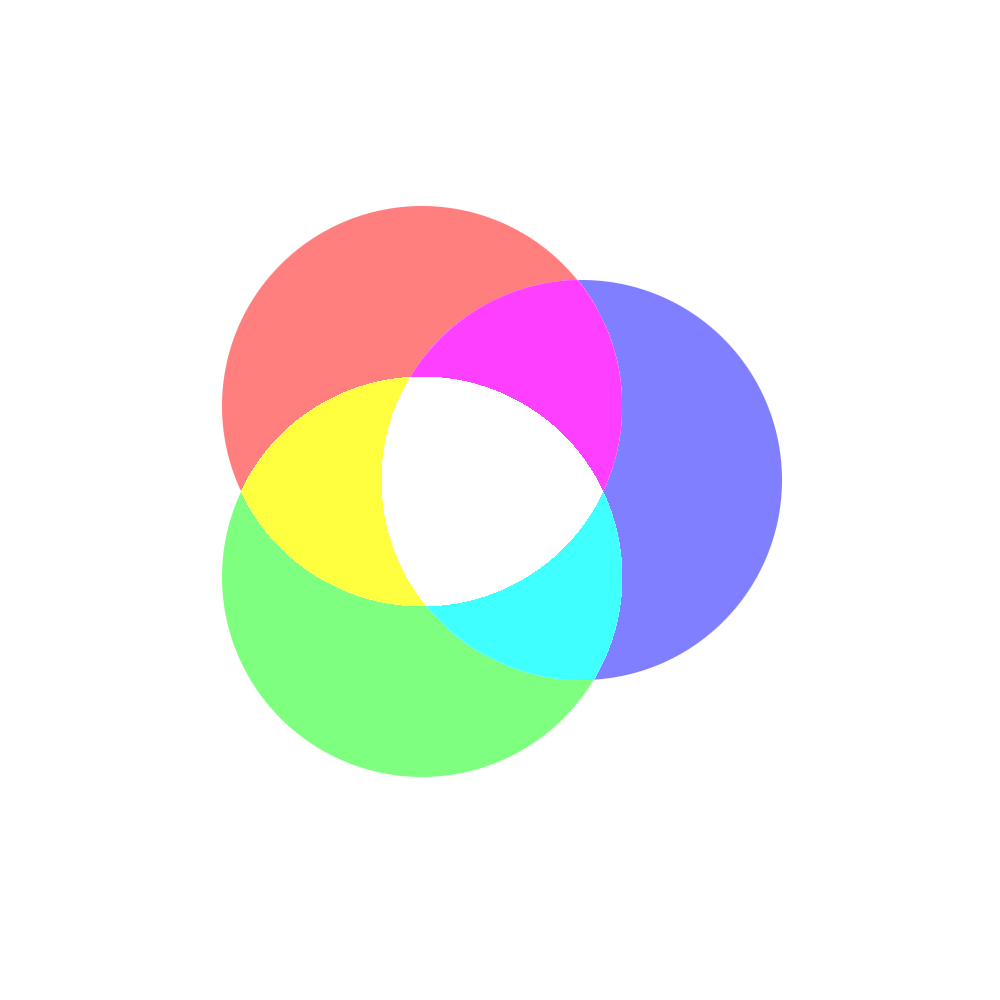
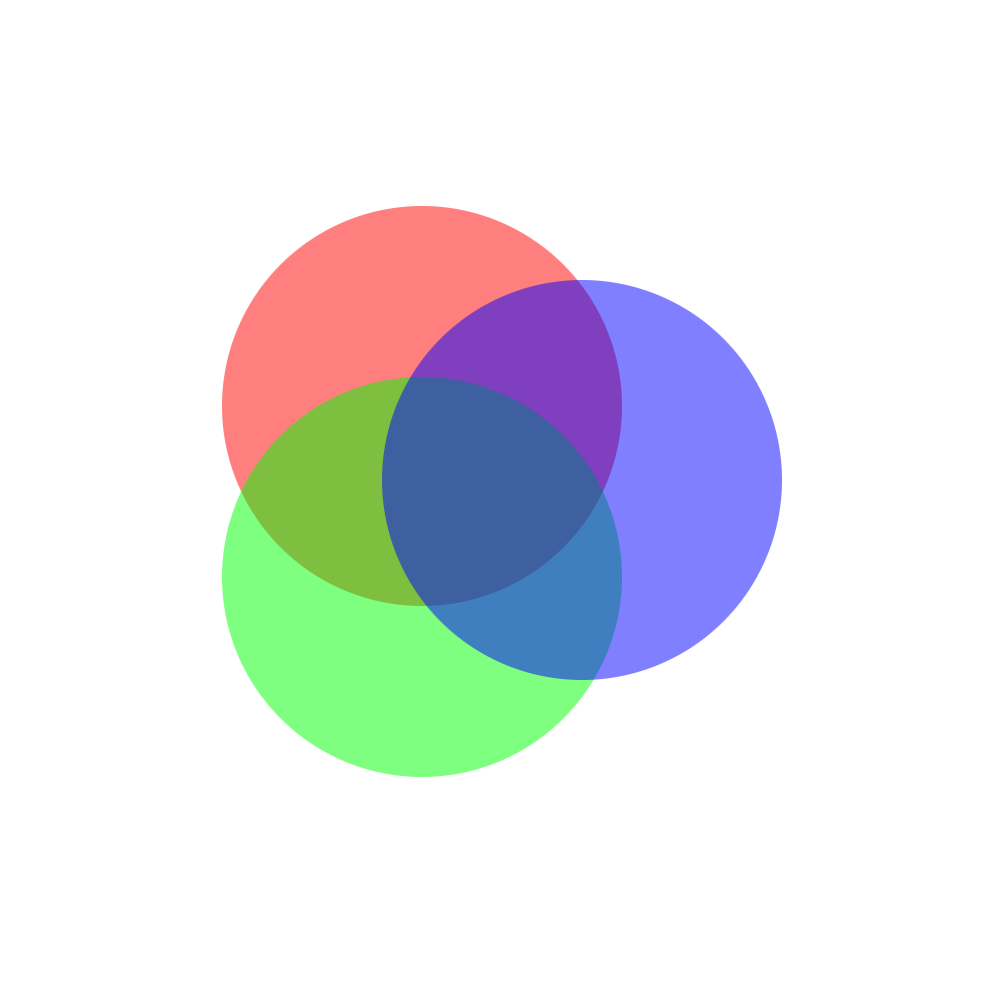
Improve conversion script * Implement recursive option * Use alpha compose instead of additive blend (fixes transparency issue) * Simplify ImageMagick commands

Changed region(s): [[0.248, 0.279, 0.62, 0.682]]

diff --git a/composite_rgb.py b/composite_rgb.py
@@ -47,14 +47,27 @@ if path_fail:
 if args.gray:
     print("Using grayscale input format.")
 
+def fast_scandir(dirname):
+    subfolders= [f.path for f in os.scandir(dirname) if f.is_dir()]
+    for dirname in list(subfolders):
+        subfolders.extend(fast_scandir(dirname))
+    return subfolders
+
 def chunks(lst, n):
     """Yield successive n-sized chunks from lst."""
     for i in range(0, len(lst), n):
         yield lst[i:i + n]
 
-#TODO Implement recursive option
+if args.recursive:
+    paths = []
+    for path in args.path:
+        paths.append(path)
+        paths.extend(fast_scandir(path))
+    paths.sort()
+else:
+    paths = args.path
 
-for path in args.path:
+for path in paths:
     print("Scanning path: {}".format(path))
     groups = {}
     with os.scandir(path) as it:
@@ -79,61 +92,29 @@ for path in args.path:
 
         cs = int((len(files) - 1) / 3)
         for c, chunk in enumerate(chunks(files, 3)):
-            cmd = ["magick", "-define", "profile:skip=\"*\"", "-background", "rgba(0,0,0,0)"]
+            cmd = ["magick", "-define", "profile:skip=\"*\""]
 
-            #FIXME Combine doesn't replicate layered properly (blending becomes additive), need to use composite with tinted layers instead
-
-            # Alpha channel
-            if len(chunk) == 3:
-                cmd.extend(["(", "(", chunk[0], chunk[1], "-compose", "Over", "-composite", ")", chunk[2], "-composite", ")"])
-            elif len(chunk) == 2:
-                cmd.extend(["(", chunk[0], chunk[1], "-compose", "Over", "-composite", ")"])
-            elif len(chunk) == 1:
-                cmd.extend([chunk[0]])
-
-            cmd.extend(["-channel", "A", "-separate", "-write", "mpr:a", "-delete", "0--1"])
-
-            # Layer channels
-            src = "R" if args.gray else "A"
-            mpr = 0
-            if len(chunk) == 3:
-                cmd.extend(["(", chunk[0], chunk[1], "-compose", "Dst_Out", "-composite", ")"])
-                cmd.extend([chunk[2], "-compose", "Dst_Out", "-composite"])
-                if args.gray:
-                    cmd.extend(["-alpha", "Remove"])
-                cmd.extend(["-channel", src, "-separate", "-write", "mpr:{}".format(mpr), "-delete", "0--1"])
-                chunk.pop(0)
-                mpr += 1
-
-            if len(chunk) == 2:
-                cmd.extend([chunk[0], chunk[1], "-compose", "Dst_Out", "-composite"])
-                if args.gray:
-                    cmd.extend(["-alpha", "Remove"])
-                cmd.extend(["-channel", src, "-separate", "-write", "mpr:{}".format(mpr), "-delete", "0--1"])
-                chunk.pop(0)
-                mpr += 1
-
-            if len(chunk) == 1:
-                cmd.extend([chunk[0]])
-                if args.gray:
-                    cmd.extend(["-alpha", "Remove"])
-                cmd.extend(["-channel", src, "-separate", "-write", "mpr:{}".format(mpr), "-delete", "0--1"])
-                chunk.pop(0)
-                mpr += 1
-
-            # Combine the channels
             cmd.append("(")
-            cmd.extend(["mpr:{}".format(m) for m in range(0, mpr)])
-            cmd.extend(["canvas:none" for m in range(mpr, 3)])
-            cmd.extend(["mpr:a", "-channel", "RGBA", "-combine"])
-            if mpr < 3:
-                cmd.extend(["-channel", "RGB"[mpr:], "-evaluate", "set", "0", "+channel"])
 
-            if c == cs and outline:
-                # Include outline in last chunk (assumed to be black)
-                cmd.extend([outline, "-compose", "Over", "-composite"])
+            clr = [("R", "GB"), ("G", "RB"), ("B", "RG")]
+            for i, img in enumerate(chunk):
+                # Isolate each layer to a color channel
+                cmd.append("(")
+                cmd.extend([img, "-colorspace", "sRGB"])
+                cmd.extend(["-channel", clr[i][1], "-evaluate", "Set", "0", "+channel"])
+                if not args.gray:
+                    cmd.extend(["-channel", clr[i][0], "-evaluate", "Set", "100%", "+channel"])
+                cmd.append(")")
+
+            cmd.extend(["-background", "rgba(0,0,0,0)", "-flatten"])
 
             cmd.append(")")
+
+            if c == cs and outline:
+                # Include black outline in last chunk
+                cmd.extend(["(", outline, "-channel", "RGB", "-evaluate", "Set", "0", "+channel", ")"])
+                cmd.extend(["-compose", "Over", "-composite"])
+
             cmd.extend(["-strip", "rgb_{}_{}.png".format(c, group)])
 
             if args.verbose:
